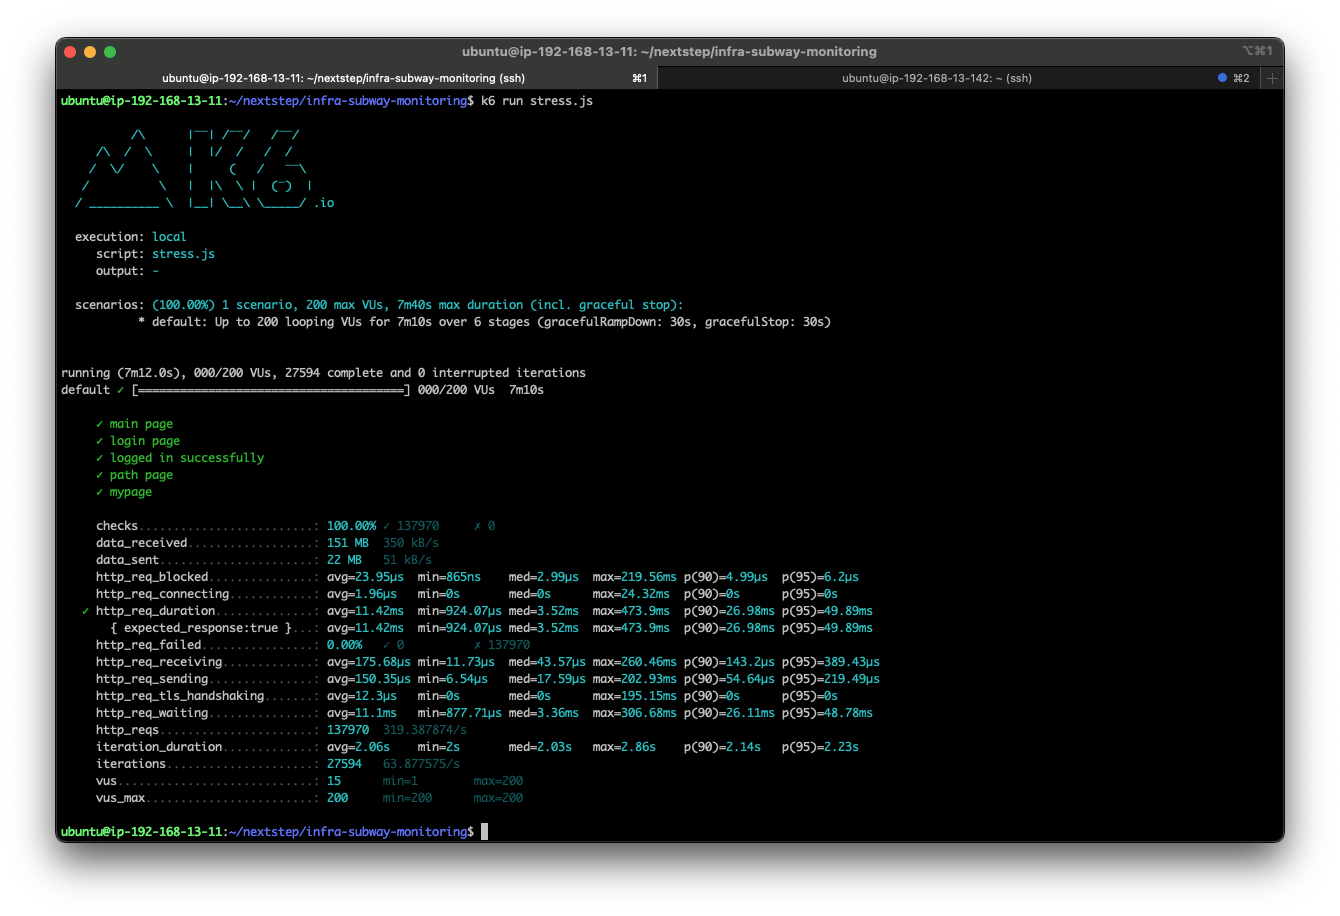
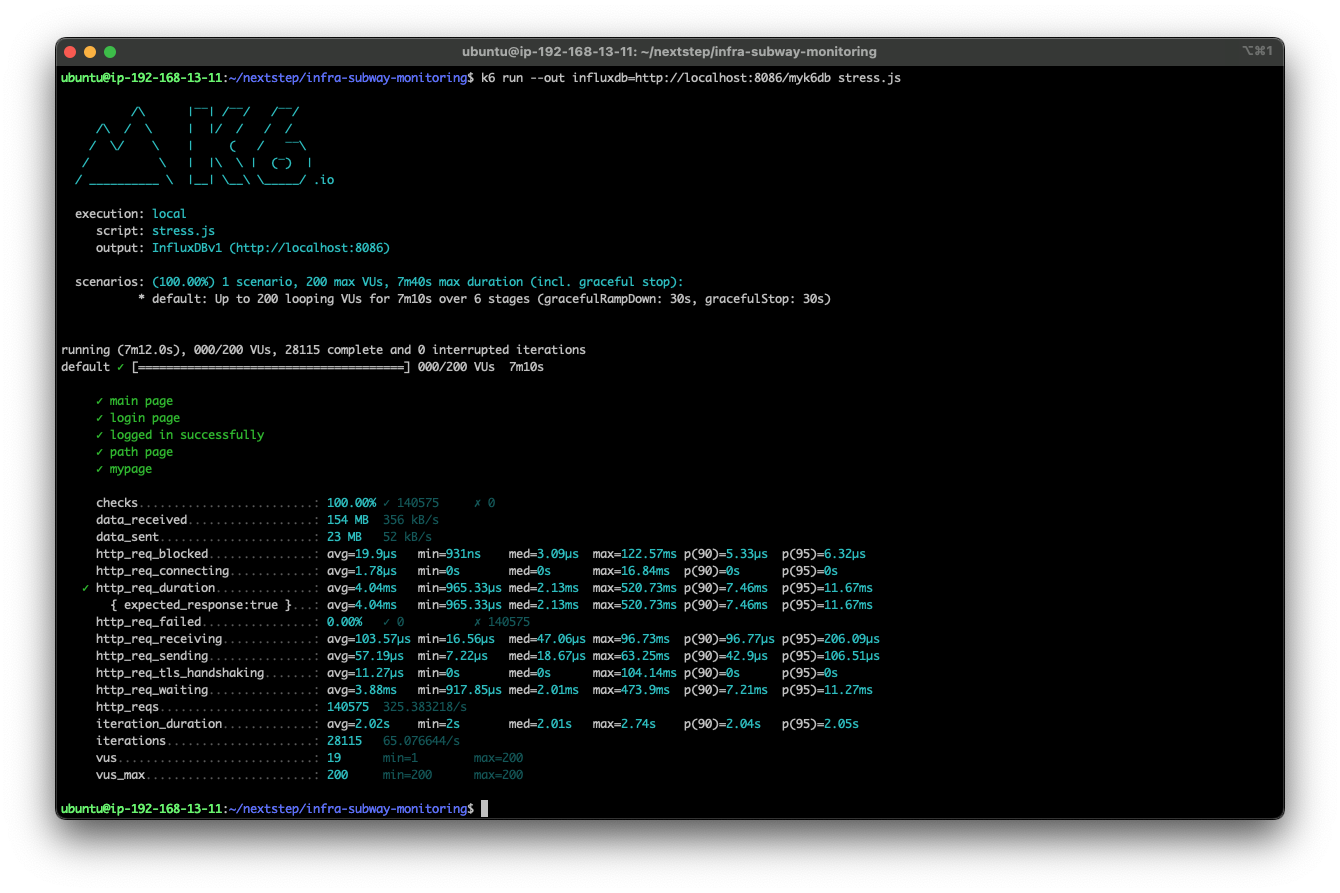
[2주차 1,2단계] 웹성능 및 부하테스트

Changed region(s): [[0.0306, 0.1512, 0.9485, 0.9373], [0.0306, 0.0302, 0.9791, 0.2116]]

diff --git a/README.md b/README.md
@@ -45,7 +45,7 @@ npm run dev
   서울교통공사 : http://www.seoulmetro.co.kr/kr/cyberStation.do
   네이버지도 : https://m.map.naver.com/subway/subwayLine.naver?region=1000
   카카오맵 : https://m.map.kakao.com/
-- 
+
 1. 웹 성능예산은 어느정도가 적당하다고 생각하시나요
 - First Contentful Paint 2.5초 미만
 - Time to Interactive 2초 이하
@@ -67,10 +67,17 @@ npm run dev
 
 ### 2단계 - 부하 테스트 
 1. 부하테스트 전제조건은 어느정도로 설정하셨나요
+- 대상 시스템 범위 : 메인화면, 로그인화면, 로그인, 경로찾기 화면, 마이페이지 화면
+- Smoke : vuser 1
+- Load : vuser 100
+- Stress : vuser 200 
 
 2. Smoke, Load, Stress 테스트 스크립트와 결과를 공유해주세요
-
+- src > main > resources > k6 test > load.png, smke.png, stress.png
+- grafana : http://3.39.53.16:3000
+  - 아이디 : admin , 비밀번호 : 12345678
 ---
+
 
 ### 3단계 - 로깅, 모니터링
 1. 각 서버내 로깅 경로를 알려주세요
